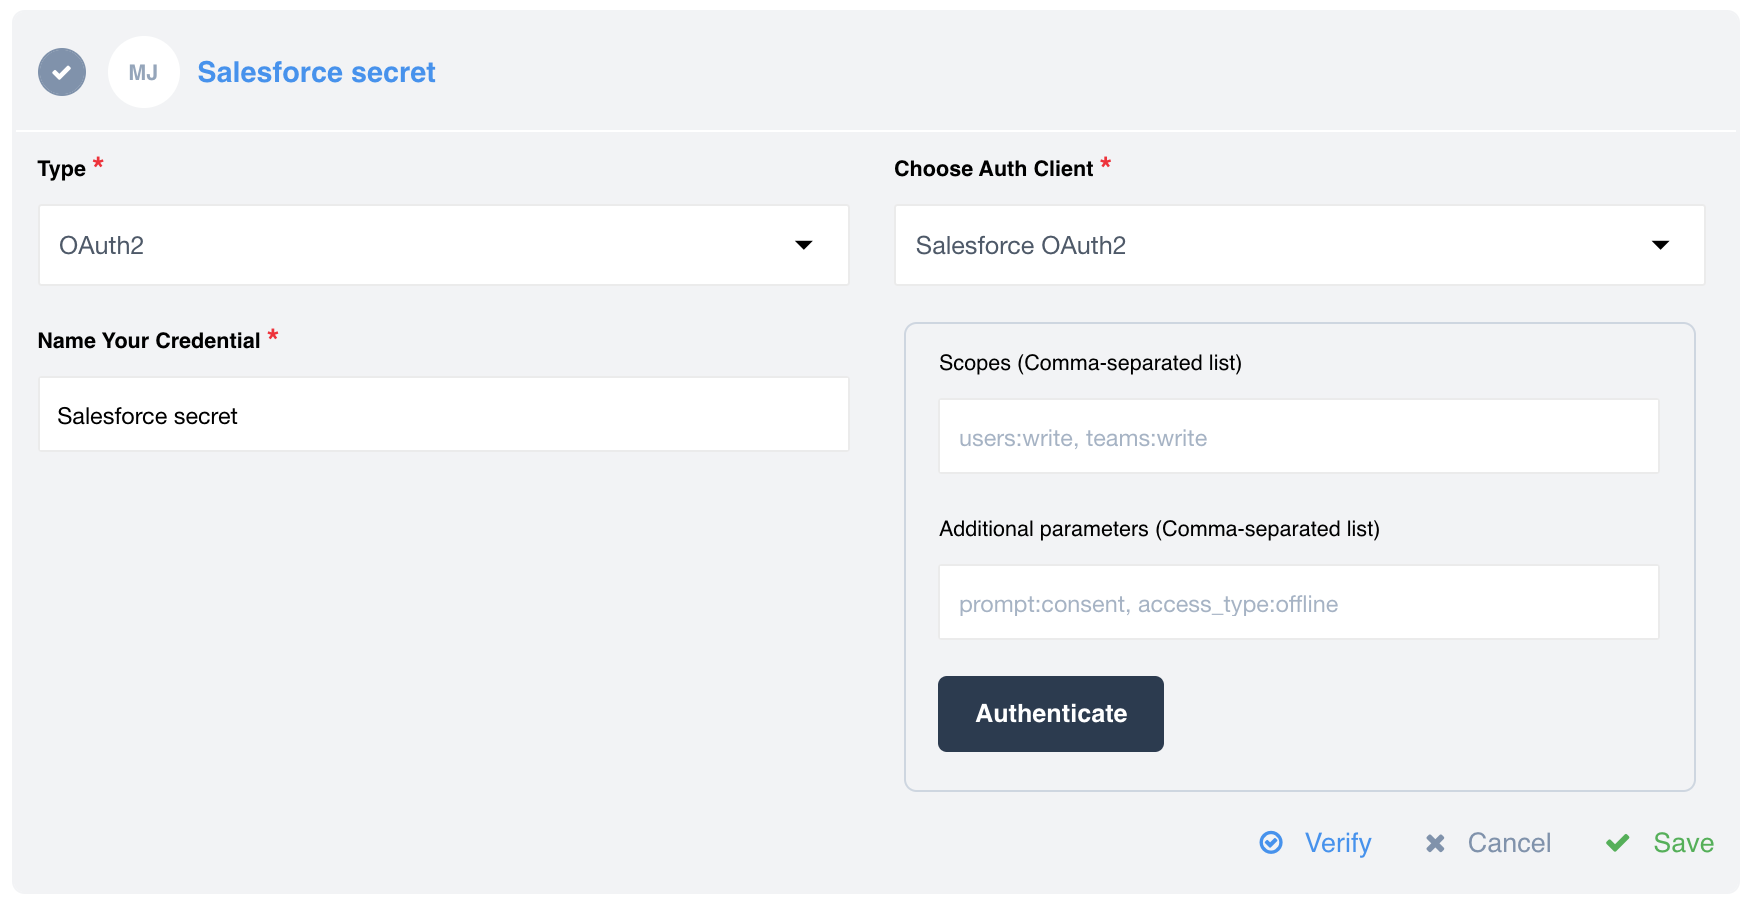
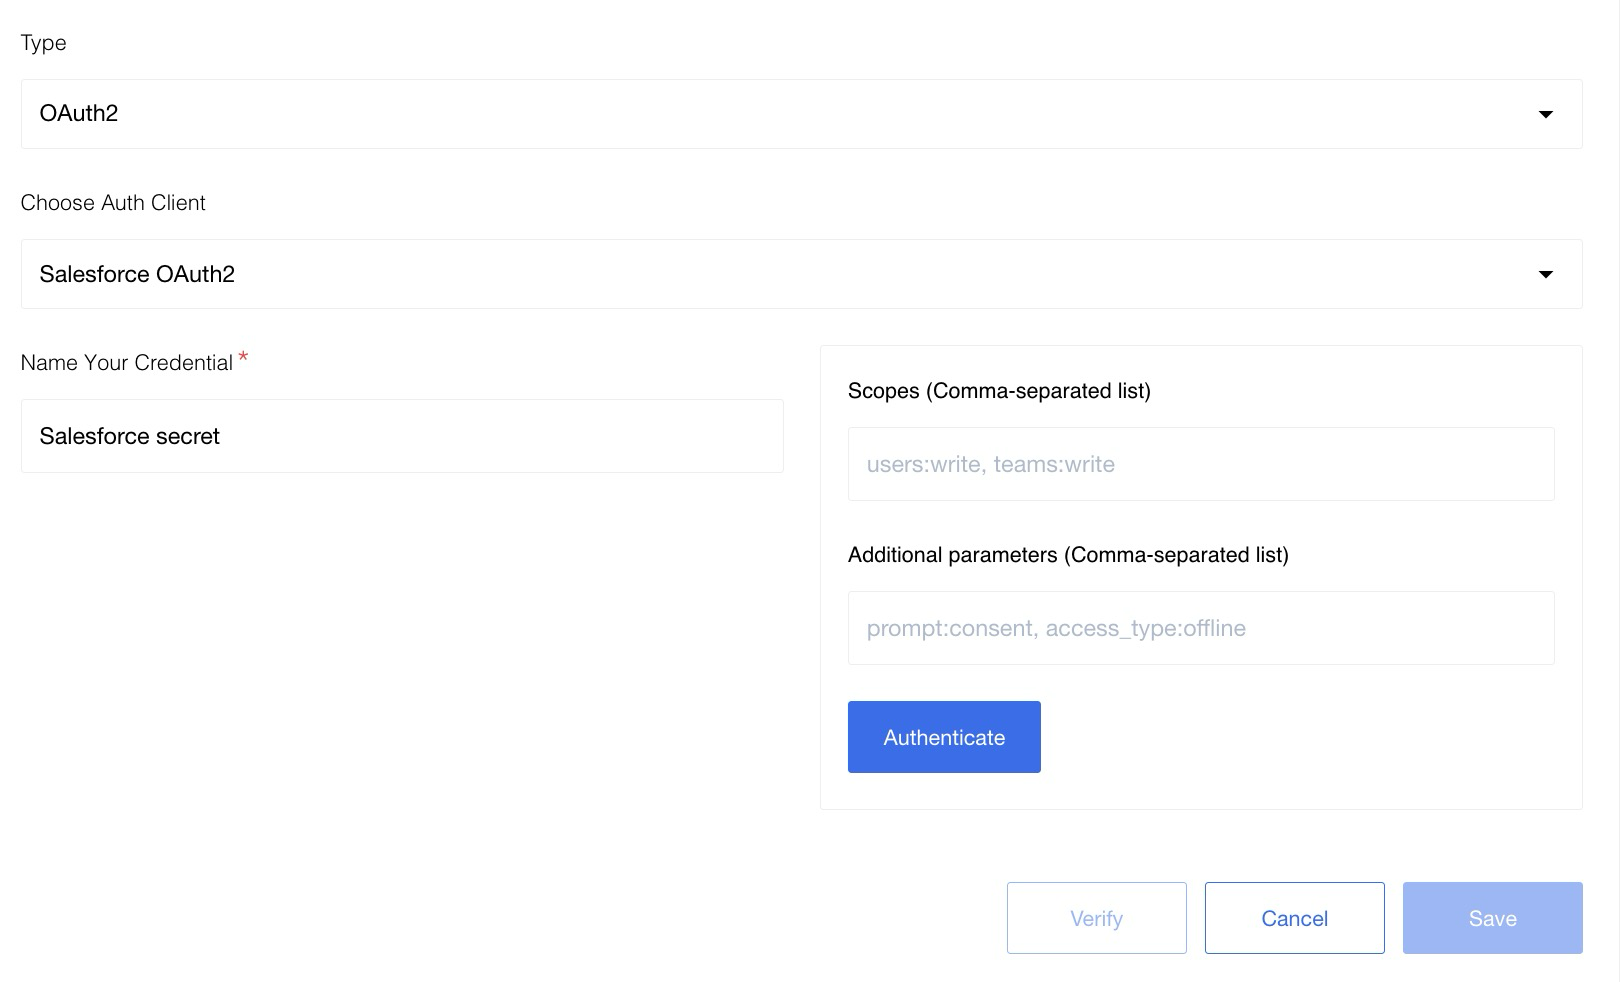
secrets_update (#1555)

diff --git a/content/_guides/secrets.md b/content/_guides/secrets.md
@@ -30,12 +30,12 @@ the need to refresh credentials by the components.
 > checking the expiration information for all credentials and updating them at
 > last 1 minutes before the expiration.
 
-## How works
+## How it works
 
 There are two entities involved in the work of Secrets feature as a service: the
 Authentication Client (`auth-client`) and the Authentication Secret (`auth-secret`).
 
-The `auth-client` takes the responsibility of communication between the Application (the platform)
+The `auth-client` takes the responsibility of communication between the Application (platform)
 and the Service (3rd party service), while the `auth-secret` takes the role of the User
 (user of the platform) and communicates with the Client in the normal
 [3-leg OAuth2 authorisation process](/developers/how-the-oauth2-process-works).
@@ -61,12 +61,12 @@ Before you can create your `auth-client` you must know that:
 
 You can create OAuth2 `auth-client` using the UI. After creating a `auth-client`, its visibility level will be `workspace`. To create a client for the entire `contract` or `tenant`, use the [API call](#creating-oauth2-clients-using-api-call).
 
-To create via UI you can use the REST API component as
+To create via UI you can use the [REST API](/components/rest-api/) component as
 an example to create an OAuth2 `auth-client` when selecting to add a credentials:
 
 {% include img.html max-width="100%" url="/assets/img/getting-started/secrets/choose-oauth2.png" title="Choose OAuth2 type credential in REST-API component." %}
 
-After clicking on **+Add New Client** a form will show-up to fill-in the details for
+After clicking on ***+ Add New Auth Client*** a form will show-up to fill-in the details for
 OAuth2 client:
 
 {% include img.html max-width="60%" url="/assets/img/getting-started/secrets/fillin-oauth2-form.png" title="Fill in the form to create the OAuth client." %}
@@ -77,8 +77,6 @@ a credential.
 For more advanced cases we recommend using an [API call](#creating-oauth2-clients-using-api-call) to create `auth-client`. We also recommend you to read our [API documentation]({{site.data.tenant.apiDocsUri}}/v2#/auth%20clients) on this topic.
 
 ### Creating other clients
-
-> **Please Note:** At the moment you can create other client types only via an API call.
 
 To create other `auth-client` types using the [Create Auth Client]({{site.data.tenant.apiDocsUri}}/v2#/auth%20clients/post_auth_clients) API documentation. However, our platform knows already about the following types:
 
@@ -109,30 +107,11 @@ unless you add a new client:
 
 {% include img.html max-width="100%" url="/assets/img/getting-started/secrets/create-oauth2-secret-choose-client.png" title="Create OAuth2 Secret." %}
 
-### Auth Secret Creation vie API calls
+### Auth Secret Creation via API calls
 
 Of course, you can also create an Auth secret using the appropriate API endpoint. We recommend you to familiarize yourself with this feature, which is described in detail in our [API documentation]({{site.data.tenant.apiDocsUri}}/v2#/auth%20secrets). Please note that there are cases where creating secrets will be much easier and more convenient using API calls.
 
-## Components and Secrets feature
-
-At the moment of writing this, not many components on our platform use the Secrets feature.
-We are migrating them gradually and only if it would improve the component usability for
-the complex integration cases. The Secrets is introduced mainly for OAuth2 authorisation improvements,
-therefore, mainly the component using OAuth2 authorisation will be converted at first.
-
-We will release a detailed guidelines on how to use Secrets feature in your custom
-components in due course.
-
-Right now new version of the following components use the Secrets feature:
-
-*   [REST API component](/components/rest-api) - introducing as a separate component.
-*   [Salesforce component](/components/salesforce) - introducing as a separate component.
-
-> **Please Note**: These **components are not strictly backwards compatible** due to architectural
-> changes done while migrating them to the Secrets feature. Old component will still be available,
-> but they will get deprecated at some stage.
-
-## Creating OAuth2 Clients using API call
+## Managing Auth Clients using API call
 
 As already mentioned in advance, you can create a `auth-client` for a `contract` only using a API call. This resource allows you to create an `auth-client`:
 
@@ -188,6 +167,23 @@ Below you can see where to find `CONTRACT_ID`(**1**) and `COMPONENT_ID`(**2**):
 
 {% include img.html max-width="100%" url="/assets/img/getting-started/secrets/ids.png" title="Contact and Clients ID" %}
 
-> Please consult the [Create Auth Client]({{site.data.tenant.apiDocsUri}}/v2#/auth%20clients/post_auth_clients)
-section for more. Also note that in addition to the creation itself, you can use API calls for a variety of other tasks. For example, you can [lists]({{site.data.tenant.apiDocsUri}}/v2#/auth%20secrets/get_workspaces__workspace_id__secrets) all auth secrets of the specified workspace or [return]({{site.data.tenant.apiDocsUri}}/v2#/auth%20secrets/get_workspaces__workspace_id__secrets__secret_id_) the specified auth secret from the defined workspace. You can also [update]({{site.data.tenant.apiDocsUri}}/v2#/auth%20secrets/patch_workspaces__workspace_id__secrets__secret_id_) or [remove]({{site.data.tenant.apiDocsUri}}/v2#/auth%20secrets/delete_workspaces__workspace_id__secrets__secret_id_)
+> Please check the [Create Auth Client]({{site.data.tenant.apiDocsUri}}/v2#/auth%20clients/post_auth_clients) API documentation for more. Also note that in addition to the creation itself, you can use API calls for a variety of other tasks. For example, you can [lists]({{site.data.tenant.apiDocsUri}}/v2#/auth%20secrets/get_workspaces__workspace_id__secrets) all auth secrets of the specified workspace or [return]({{site.data.tenant.apiDocsUri}}/v2#/auth%20secrets/get_workspaces__workspace_id__secrets__secret_id_) the specified auth secret from the defined workspace. You can also [update]({{site.data.tenant.apiDocsUri}}/v2#/auth%20secrets/patch_workspaces__workspace_id__secrets__secret_id_) or [remove]({{site.data.tenant.apiDocsUri}}/v2#/auth%20secrets/delete_workspaces__workspace_id__secrets__secret_id_)
  the specified auth secret.
+
+## Auth Secret Expiration Behavior
+
+The Application (platform) does not manage or control the secret’s expiration. If your `CLIENT_SECRET` has an expiration date configured in your Service (3rd party service), token refresh attempts will fail with an error once the secret expires.
+
+On the first failed refresh attempt caused by an expired secret, we mark the `auth-client` with an internal flag indicating that it is no longer in a recoverable state. This behavior is intentional and part of our security design, helping protect against scenarios such as credential brute-force attacks.
+
+> **Please Note:** Once the `auth-client` is marked as **irrecoverable**, all subsequent token refresh attempts will continue to fail, even if the `CLIENT_SECRET` is later updated.
+
+### How to Prevent Authentication Errors
+
+To avoid entering an irrecoverable state, use one of the following approaches:
+#### 1. Recreate the Auth Client
+Create a new `auth-client` and switch to the new credentials.  
+This guarantees a clean state and avoids any issues related to expired secrets.
+#### 2. Rotate the Secret Before Expiration
+Update (patch) the `CLIENT_SECRET` **before it expires**.  
+By doing this, you prevent failed refresh attempts, ensuring the client is never marked as irrecoverable and token refresh continues to function normally.
